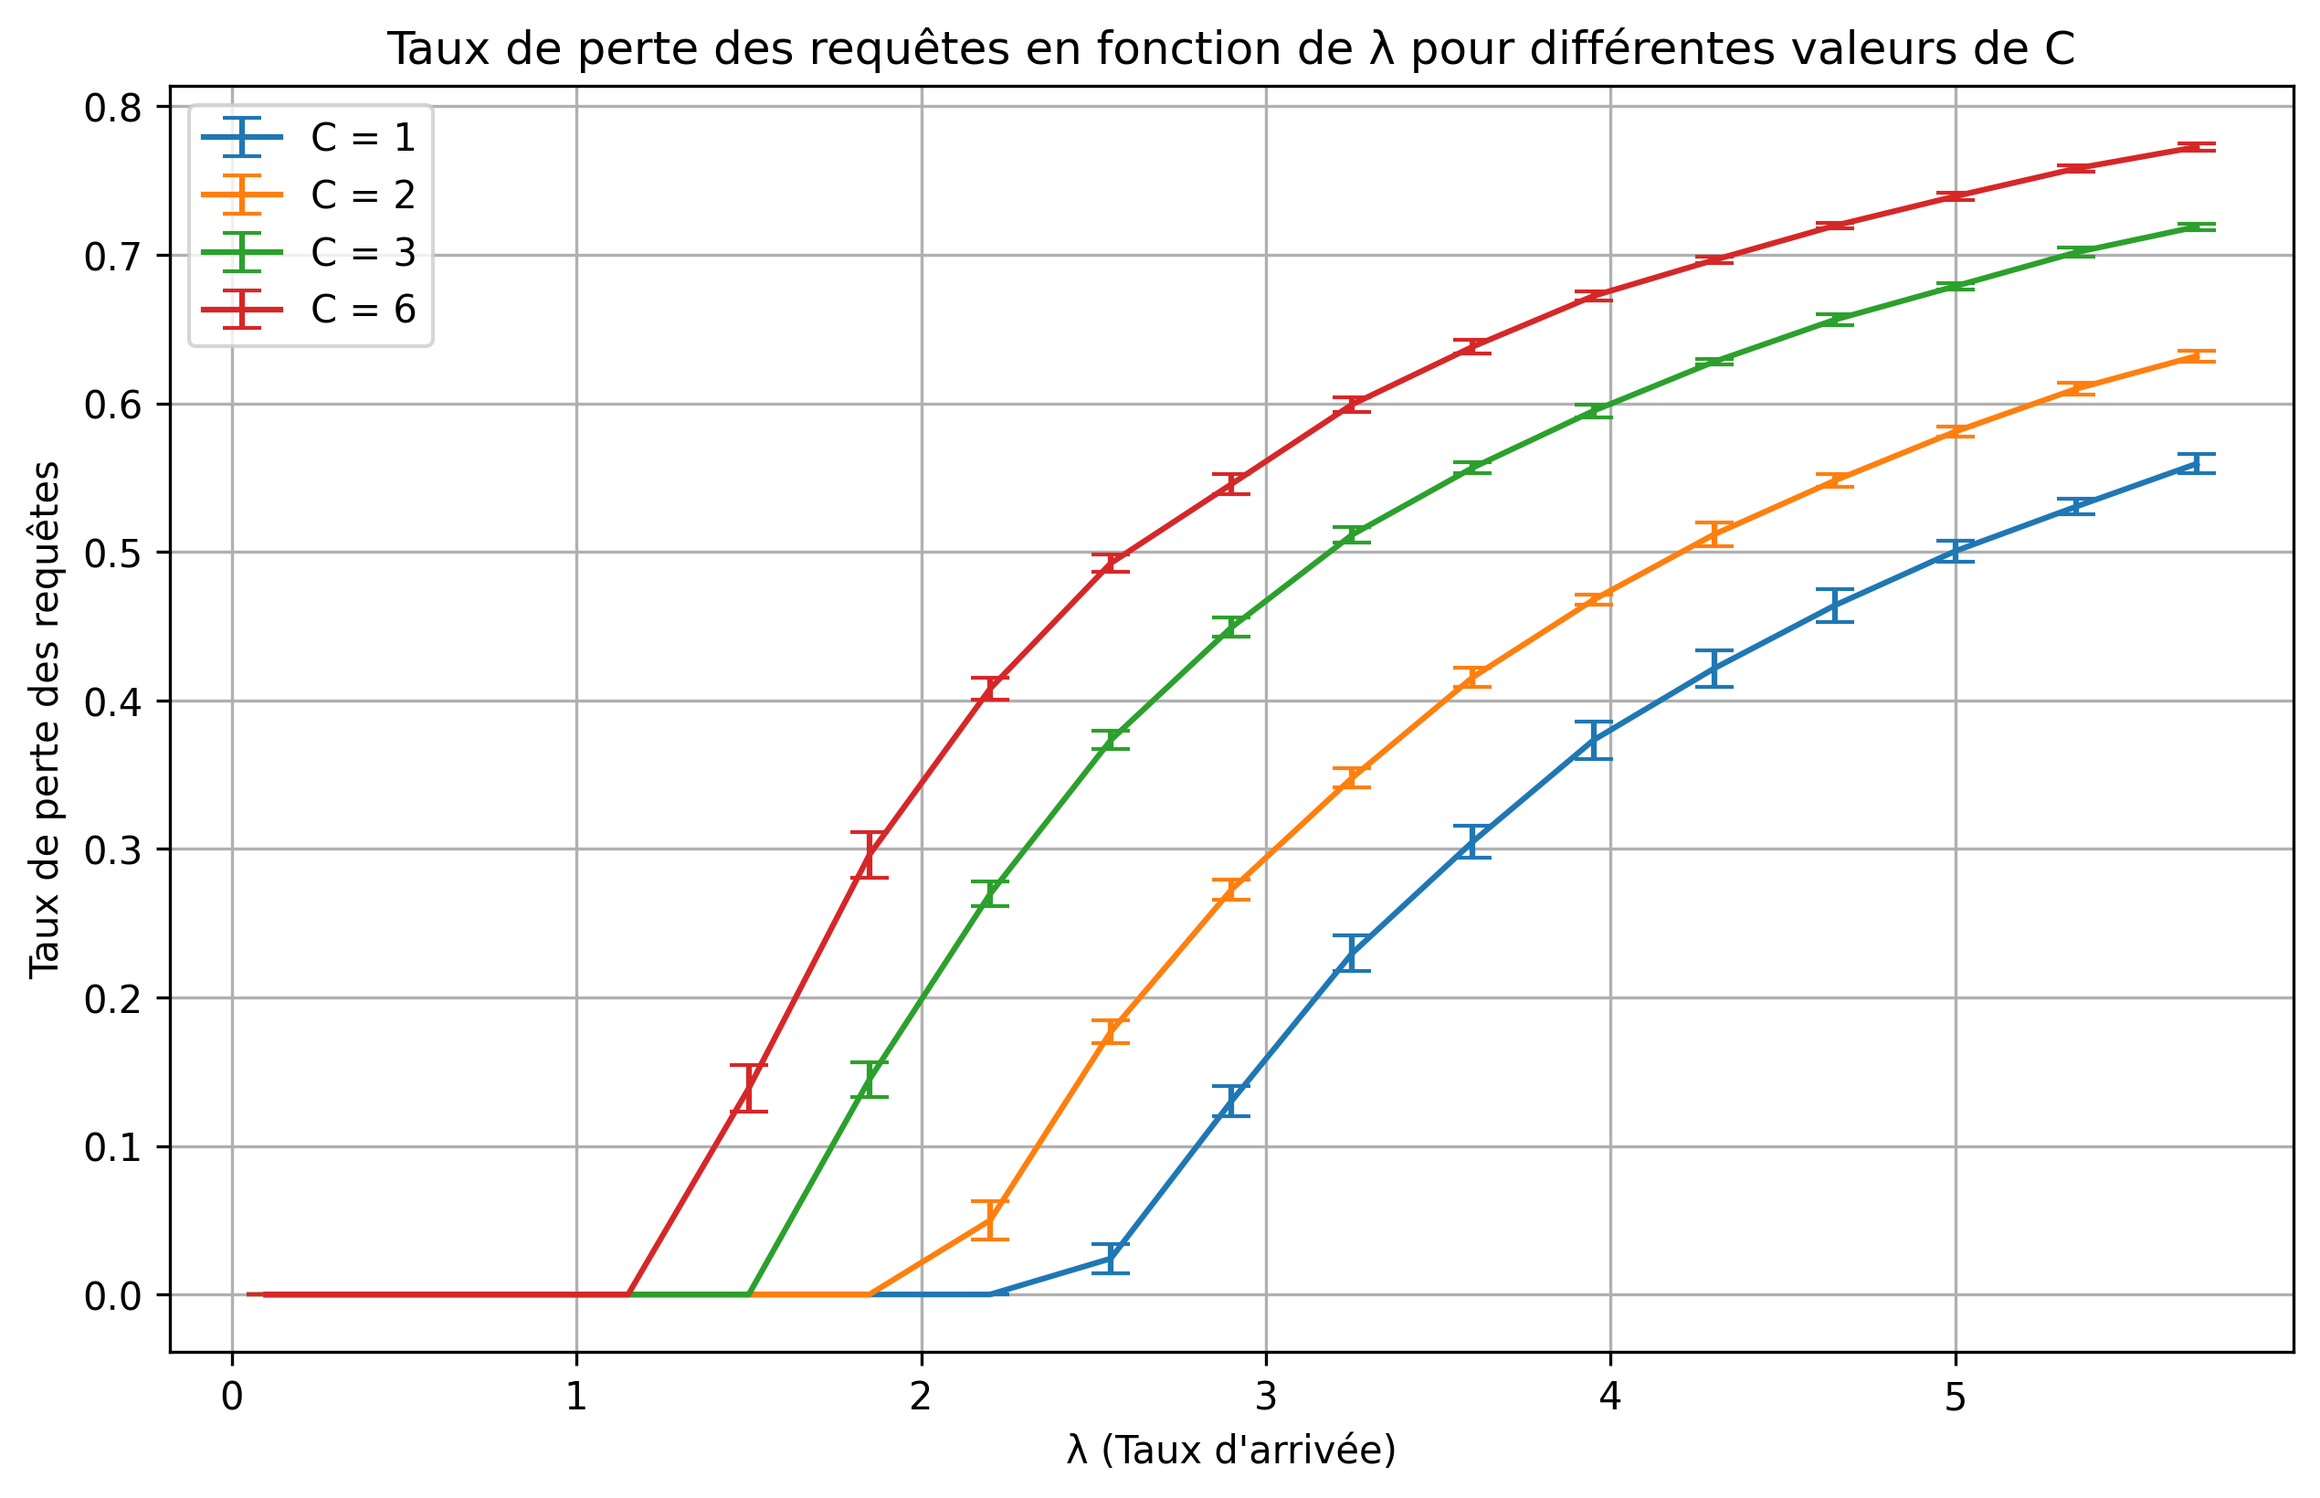
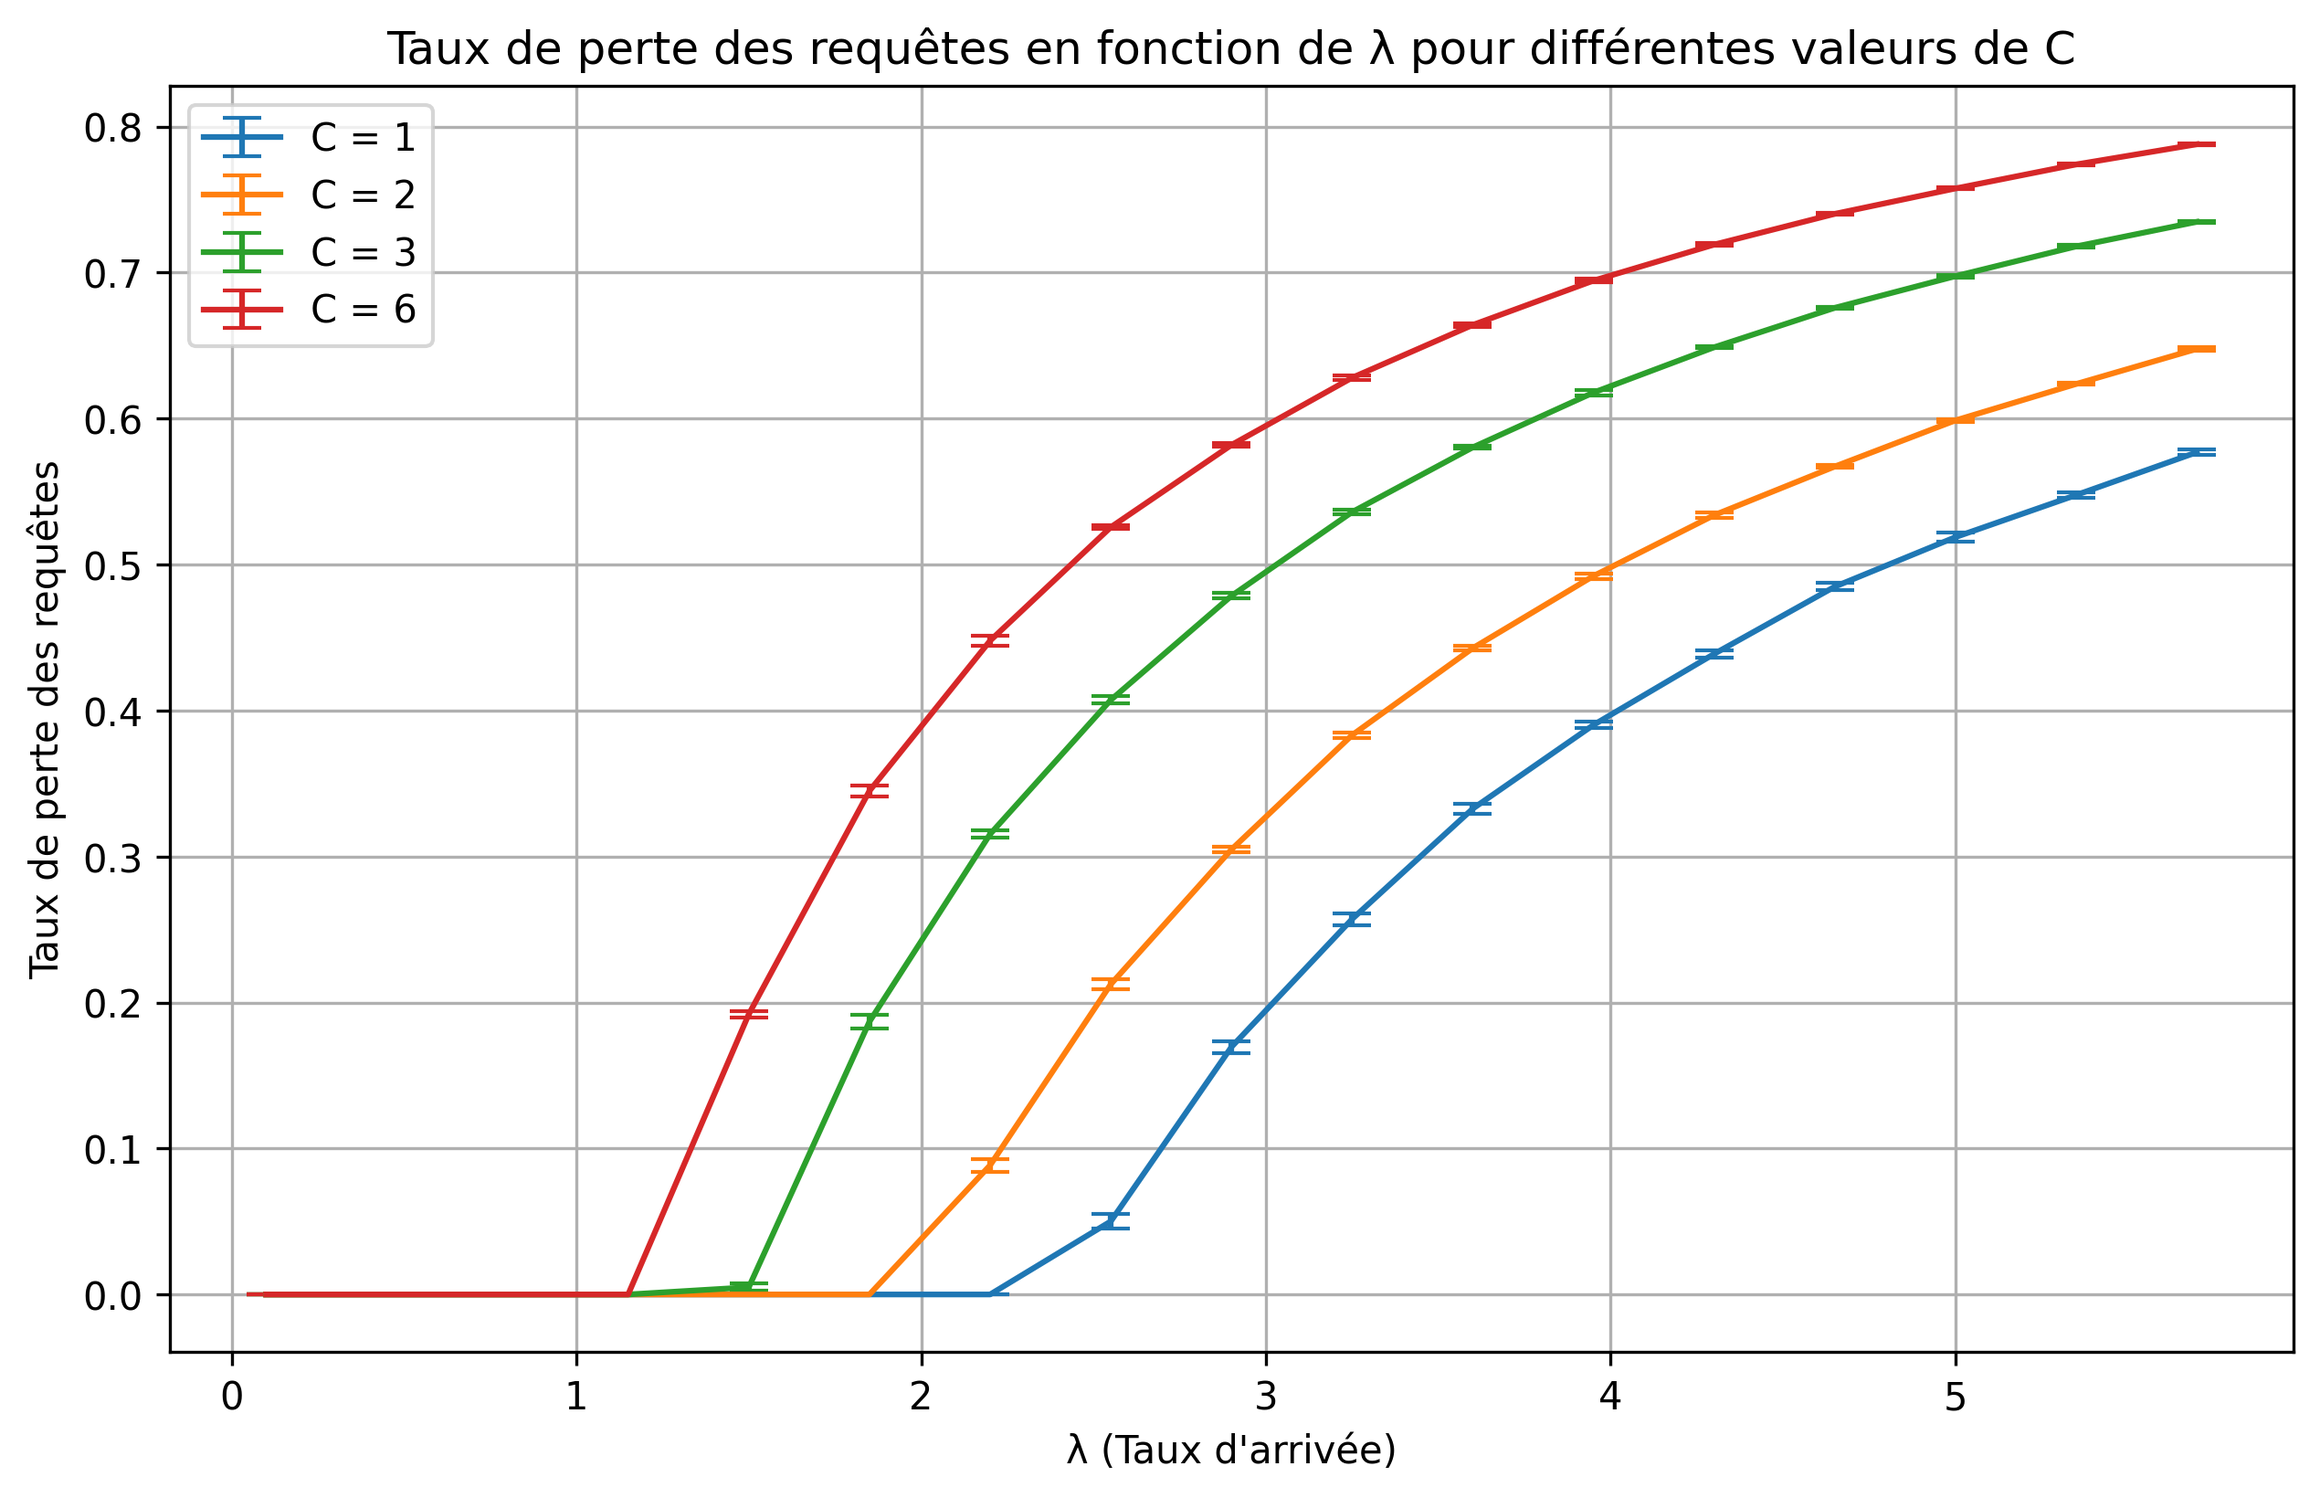
readme

diff --git a/Projet.py b/Projet.py
@@ -8,7 +8,7 @@ N_SERVEURS = 12
 QUEUE_SIZE = 100
 C_VALUES = [1, 2, 3, 6]
 LAMBDA_VALUES = np.arange(0.1, 6, 0.35)
-SIMULATION_TIME = 1000  
+SIMULATION_TIME = 10000
 
 def exp_rnd(lmbda):
     return np.random.exponential(1 / lmbda)

diff --git a/ReadMe.md b/ReadMe.md
@@ -1,174 +1,172 @@
-Simulation de Routeur avec Groupes de Serveurs
-Ce projet implémente une simulation à événements discrets d'un système de routage avec plusieurs groupes de serveurs. Il analyse l'impact du nombre de groupes (C) sur les performances d'un système distribué sous différentes charges de travail (λ), en cherchant à identifier les configurations optimales qui minimisent le temps de réponse moyen (W) tout en maintenant un taux de perte de requêtes inférieur à 5%.
-Description du Projet
-Le projet simule un routeur recevant des requêtes et les distribuant vers des groupes de serveurs. Les paramètres clés sont :
+Voici un fichier `README.md` bien structuré et formaté en Markdown à partir de votre texte :
 
-N_SERVEURS : 12 serveurs au total.
-QUEUE_SIZE : Capacité maximale de la file d'attente du routeur (100 requêtes).
-C : Nombre de groupes de serveurs (1, 2, 3, 6).
-λ : Taux d'arrivée des requêtes (de 0.1 à 6, par pas de 0.35).
-SIMULATION_TIME : Durée de chaque simulation (1000 unités de temps).
+---
 
-Chaque requête est assignée à un groupe selon sa catégorie, avec une file d'attente FIFO au niveau du routeur et des files d'attente par groupe pour les serveurs.
-Modèle de Distribution des Serveurs
+# Simulation de Routeur avec Groupes de Serveurs
 
-C=1 : 1 groupe de 12 serveurs.
-C=2 : 2 groupes de 6 serveurs.
-C=3 : 3 groupes de 4 serveurs.
-C=6 : 6 groupes de 2 serveurs.
+Ce projet implémente une **simulation à événements discrets** d'un système de routage avec plusieurs groupes de serveurs. L'objectif est d'analyser l'impact du nombre de groupes (`C`) sur les performances d'un système distribué sous différentes charges de travail (`λ`), en identifiant les configurations optimales qui **minimisent le temps de réponse moyen (`W`)** tout en maintenant un **taux de perte inférieur à 5%**.
 
-Temps de Service
-Les temps de service suivent une loi exponentielle avec des taux dépendant de C. Le taux (noté μ) détermine la rapidité de traitement des requêtes, et la moyenne du temps de service est calculée comme 1/μ (en unités de temps). Voici les taux et leurs moyennes correspondantes :
+---
 
-C=1 : Taux = 4/20 = 0.2 → Moyenne = 1 / 0.2 = 5 unités de temps.
-C=2 : Taux = 7/20 = 0.35 → Moyenne = 1 / 0.35 ≈ 2.86 unités de temps.
-C=3 : Taux = 10/20 = 0.5 → Moyenne = 1 / 0.5 = 2 unités de temps.
-C=6 : Taux = 14/20 = 0.7 → Moyenne = 1 / 0.7 ≈ 1.43 unités de temps.
+## Description du Projet
 
-Ces moyennes indiquent le temps moyen qu'un serveur met pour traiter une requête dans chaque configuration. Un taux plus élevé (donc une moyenne plus faible) reflète un traitement plus rapide, ce qui est cohérent avec un plus grand nombre de groupes (C élevé) permettant une meilleure distribution des requêtes, bien que chaque groupe ait moins de serveurs.
-Installation et Configuration
-Créer un environnement virtuel
+Le projet simule un **routeur** recevant des requêtes et les distribuant vers des groupes de serveurs.
+**Paramètres principaux :**
+
+* `N_SERVEURS`: 12 serveurs au total
+* `QUEUE_SIZE`: Capacité maximale de la file du routeur (100 requêtes)
+* `C`: Nombre de groupes de serveurs (1, 2, 3, 6)
+* `λ`: Taux d'arrivée des requêtes (de 0.1 à 6, pas de 0.35)
+* `SIMULATION_TIME`: Durée de simulation (1000 unités de temps)
+
+---
+
+## Architecture des Groupes
+
+| C | Répartition des serveurs |
+| - | ------------------------ |
+| 1 | 1 groupe de 12 serveurs  |
+| 2 | 2 groupes de 6 serveurs  |
+| 3 | 3 groupes de 4 serveurs  |
+| 6 | 6 groupes de 2 serveurs  |
+
+---
+
+## Temps de Service
+
+Le temps de traitement suit une **loi exponentielle**, dont le taux `μ` dépend de `C` :
+
+| C | Taux (μ) | Moyenne du temps de service (1/μ) |
+| - | -------- | --------------------------------- |
+| 1 | 0.2      | 5.00 unités                       |
+| 2 | 0.35     | 2.86 unités                       |
+| 3 | 0.5      | 2.00 unités                       |
+| 6 | 0.7      | 1.43 unités                       |
+
+---
+
+## Installation
+
+1. **Créer un environnement virtuel** :
+
+```bash
 python -m venv envPRO
+```
 
-Activer l'environnement virtuel
+2. **Activer l'environnement** :
 
-Windows:envPRO\Scripts\activate
+* **Windows** :
 
+```bash
+envPRO\Scripts\activate
+```
 
-Mac/Linux:source envPRO/bin/activate
+* **Mac/Linux** :
 
+```bash
+source envPRO/bin/activate
+```
 
+3. **Installer les dépendances** :
 
-Installer les dépendances
-Installez les dépendances listées dans requirements.txt :
+```bash
 pip install -r requirements.txt
+```
 
+### Dépendances
 
-Dépendances
-Les dépendances sont spécifiées dans le fichier requirements.txt et incluent :
+* `numpy` : Génération aléatoire, calculs numériques
+* `matplotlib` : Visualisation
+* `heapq` : File de priorité (standard)
 
-NumPy: Génération de nombres aléatoires et calculs.
-Matplotlib: Visualisation des résultats.
-heapq: Gestion de la file d'événements (bibliothèque standard).
+---
 
-Usage
-Exécutez la simulation complète pour générer les graphiques et résultats :
+## Utilisation
+
+Lancer la simulation complète :
+
+```bash
 python Projet.py
+```
 
+---
 
-Description des Fonctions
-1. exp_rnd(lmbda)
-Génère une variable aléatoire exponentielle avec taux lmbda.
-1. Classe Requete
-Représente une requête avec :
+## Structure du Code
 
-time: Temps d'arrivée.
-category: Groupe de serveurs cible.
+### Fonctions & Classes Principales
 
-3. Classe Serveur
-Représente un serveur avec :
+* `exp_rnd(lmbda)` : Génère un nombre exponentiel de taux `lmbda`
+* `class Requete` : Contient `time` (arrivée), `category` (groupe cible)
+* `class Serveur` : Gère l’état `busy`, `end_time`
+* `class Routeur` :
 
-busy: État (occupé/libre).
-end_time: Fin du traitement en cours.
+  * `queue` : File FIFO (max 100)
+  * `servers` : Serveurs par groupe
+  * `receive_request()`, `dispatch_to_server()`, `end_service()`, etc.
+* `moyenne(data)` / `variance(data)` / `confidence_interval(data)`
+* `simulate(C, lmbda)` : Retourne `W` et `loss_rate`
+* `run_all_simulations()` : Exécute toutes les simulations
+* `plot_response_time(results)` : Graphe `W` vs `λ`
+* `plot_loss_rate(results, lambda_limits)`
+* `find_optimal_C_for_lambda_1(results)`
+* `find_optimal_C_for_all_lambdas(results, lambda_limits)`
 
-4. Classe Routeur
-Gère la file d'attente et le routage avec :
+---
 
-C: Nombre de groupes.
-queue: File FIFO (capacité 100).
-servers: Dictionnaire des serveurs par groupe.
-waiting: Files d'attente par groupe.
-loss_count: Requêtes perdues.
-completed: Requêtes complétées.
-Méthodes :
-receive_request: Accepte ou rejette une requête.
-start_routing/end_routing: Gère le routage.
-dispatch_to_server: Assigne une requête à un serveur.
-end_service: Termine un service et traite les requêtes en attente.
+## Analyse et Résultats
 
+### Métriques
 
+* **Temps de réponse moyen (W)** : `W = L / λ_eff`
+* **Taux de perte** : Proportion de requêtes rejetées
+* **Intervalle de confiance (95%)** : Moyenne ± marge
 
-5. moyenne(data)
-Calcule la moyenne d'une liste.
-6. variance(data)
-Calcule la variance d'une liste.
-7. confidence_interval(data)
-Calcule la moyenne et la marge d'erreur (intervalle de confiance à 95%).
-8. simulate(C, lmbda)
-Simule le système pour un C et λ donnés, renvoyant :
+### Configuration optimale (résumé)
 
-W: Temps de réponse moyen (calculé via la loi de Little).
-loss_rate: Taux de perte.
+| λ      | C optimal | W (temps de réponse) |
+| ------ | --------- | -------------------- |
+| 0.10   | 6         | 2.37                 |
+| 0.45   | 6         | 2.53                 |
+| 0.80   | 3         | 2.98                 |
+| 1.15   | 3         | 3.69                 |
+| 1.50   | 2         | 4.16                 |
+| 1.85   | 1         | 5.57                 |
+| 2.20   | 1         | 9.28                 |
+| 2.55   | 1         | 30.13                |
+| ≥ 2.90 | Aucun     | Taux de perte > 5%   |
 
-9. run_all_simulations()
-Exécute les simulations pour tous les C et λ, renvoyant :
+---
 
-results: Métriques (W, taux de perte, marges).
-lambda_limits: Valeurs de λ où le taux de perte dépasse 5%.
+## Analyse Complémentaire
 
-10. plot_response_time(results)
-Trace le temps de réponse moyen (W) vs λ pour chaque C, avec barres d'erreur.
-11. plot_loss_rate(results, lambda_limits)
-Trace le taux de perte vs λ pour chaque C, avec barres d'erreur, et affiche les limites de λ.
-12. find_optimal_C_for_lambda_1(results)
-Identifie le C optimal pour λ=1 (minimise W, taux de perte ≤ 5%).
-13. find_optimal_C_for_all_lambdas(results, lambda_limits)
-Détermine le C optimal pour chaque λ, avec résumé des résultats.
-Architecture du Code
+* **Faible charge (`λ < 0.80`)** : `C=6` est optimal
+* **Charge moyenne (`0.80 ≤ λ < 1.50`)** : `C=3` ou `C=2`
+* **Charge modérée à élevée (`λ ≥ 1.85`)** : `C=1` est préférable
+* **Charge très élevée (`λ ≥ 2.90`)** : Aucune configuration ne satisfait le taux de perte
 
-Requete: Structure une requête.
-Serveur: Gère l'état d'un serveur.
-Routeur: Orchestre le routage et la gestion des files.
-Simulation: Logique à événements discrets.
-Analyse: Calcul des métriques et visualisation.
+---
 
-Métriques et Analyse
-Temps de Réponse Moyen (W)
-Temps total passé par une requête dans le système (file + service). Dans cette simulation, W est calculé en utilisant la loi de Little : W = L / λ_eff, où :
+## Conclusion
 
-L est le nombre moyen de requêtes dans le système, calculé via une somme pondérée des requêtes en file, en attente, et en service.
-λ_eff est le taux d'arrivée effectif, basé sur le nombre de requêtes complétées par unité de temps.
+* Le **choix optimal de `C` dépend de `λ`**.
+* Plus `λ` est faible, plus un **parallélisme élevé (`C` élevé)** est bénéfique.
+* Pour des charges plus lourdes, **moins de groupes mais plus de serveurs par groupe** deviennent préférables.
+* Une **stratégie dynamique d’adaptation de `C`** permettrait d’optimiser la performance.
 
-Taux de Perte
-Proportion de requêtes rejetées (file pleine ou file de groupe saturée).
-Intervalle de Confiance
-10 exécutions par configuration pour calculer des intervalles de confiance à 95%, assurant la robustesse des résultats.
+---
 
-Résultats
+## Auteurs
 
-1. Configuration Optimale
-Pour chaque valeur de λ, la configuration optimale est celle qui minimise W tout en maintenant un taux de perte inférieur à 5%. Les résultats montrent que :
+* **Arris Yanis**
+* **Benali Mohamed Amine**
 
-λ = 0.10 : C=6 (W = 2.37).
-λ = 0.45 : C=6 (W = 2.53).
-λ = 0.80 : C=3 (W = 2.98).
-λ = 1.15 : C=3 (W = 3.69).
-λ = 1.50 : C=2 (W = 4.16).
-λ = 1.85 : C=1 (W = 5.57).
-λ = 2.20 : C=1 (W = 9.28).
-λ = 2.55 : C=1 (W = 30.13).
-λ ≥ 2.90 : Aucun C ne maintient un taux de perte < 5%.
+---
 
-Analyse des Résultats
+## 📚 Références
 
-Faibles charges (λ < 0.80) : C=6 est optimal, offrant les temps de réponse les plus bas (autour de 2.5 unités), grâce à un parallélisme élevé.
-Charges faibles à moyennes (0.80 ≤ λ < 1.50) : C=3 devient optimal, équilibrant parallélisme et efficacité, avec des temps de réponse autour de 3 à 4 unités.
-Charges moyennes (1.50 ≤ λ < 1.85) : C=2 prend l'avantage, avec un W d’environ 4.16 à λ = 1.50.
-Charges modérées (1.85 ≤ λ < 2.90) : C=1 devient la meilleure option, car les autres configurations dépassent un taux de perte de 5%, avec W augmentant de 5.57 à 30.13.
-Charges élevées (λ ≥ 2.90) : Aucune configuration ne maintient un taux de perte inférieur à 5%, et W devient très élevé pour tous les C.
+* Théorie des files d'attente
+* Simulation à événements discrets
+* Loi exponentielle
+* Loi de Little
 
-Ces transitions montrent un équilibre entre la distribution des requêtes (favorisée par un C élevé) et l'efficacité des ressources (favorisée par un C plus faible).
-Conclusions
-Le choix de C dépend fortement de λ. Pour les faibles charges, un C élevé (comme 6) est préférable pour minimiser W. À mesure que λ augmente, des valeurs de C plus faibles (comme 3, puis 2, et enfin 1) deviennent plus adaptées pour maintenir des performances acceptables. Une configuration dynamique ajustant C en fonction de la charge pourrait optimiser les performances. La simulation souligne l'importance de l'équilibre entre parallélisme et efficacité dans les systèmes distribués.
-Auteurs
-
-Arris Yanis
-Benali Mohamed Amine
-
-Références
-
-Théorie des files d'attente
-Simulation à événements discrets
-Loi exponentielle
-Loi de Little
 
